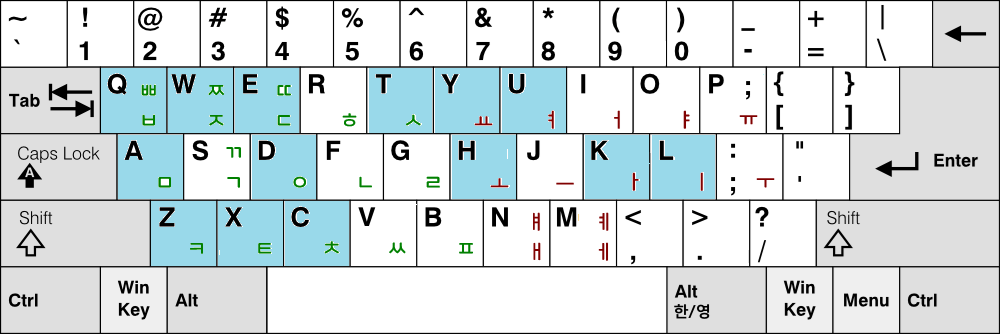
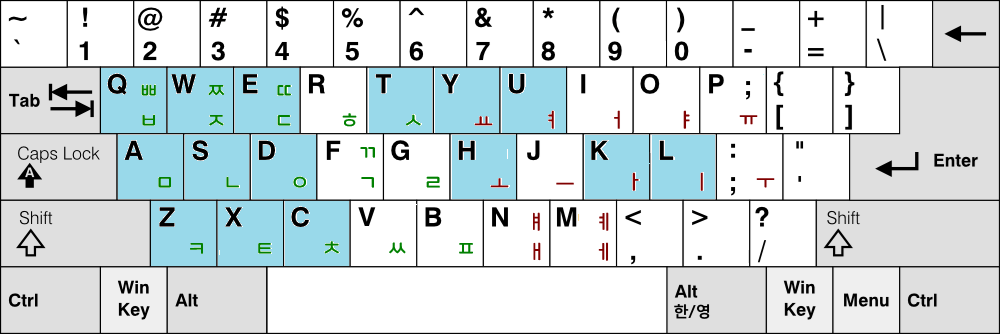
fix: 자음 앵커 글쇠 ㄴ의 위치를 표준 두벌식과 호환되도록 수정

Changed region(s): [[0.155, 0.3892, 0.279, 0.5988], [0.341, 0.5389, 0.372, 0.5689], [0.093, 0.2395, 0.124, 0.2695]]

diff --git a/README.md b/README.md
@@ -87,7 +87,7 @@
 
 두줄이 자판은 다음과 같은 특징을 갖습니다:
 
-- 표준 두벌식과 **14개 글쇠 공유** → 낮은 학습 비용
+- 표준 두벌식과 **15개 글쇠 공유** → 낮은 학습 비용
 - 구조적 정렬을 통한 **입력 패턴 단순화**
 - 손가락 분산을 통한 **피로도 감소**
 - 기존 사용자 경험을 유지하면서 **효율 개선**
@@ -111,7 +111,7 @@
 | --- | --- | --- | --- | --- |
 | 두벌식 표준 | 0.2928 | 0.8746 | 1.1329 | 2.4156 |
 | 두벌식 박영효-송계범 | 0.2659 | 0.8581 | 1.1125 | 2.3486 |
-| 두벌식 줄맞춤 e | **0.2472** | **0.8001** | **1.1066** | **2.2379** |
+| 두벌식 줄맞춤 e | **0.2453** | **0.8084** | **1.1045** | **2.2424** |
 
 ### 해석
 
